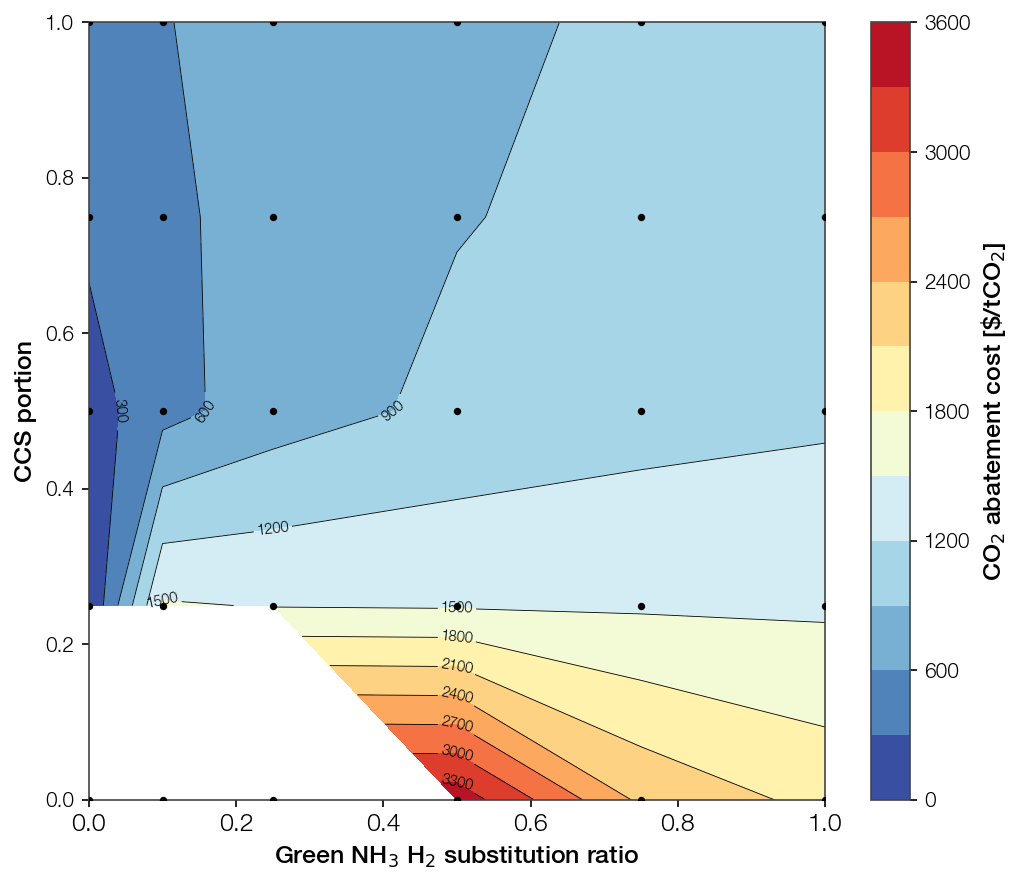
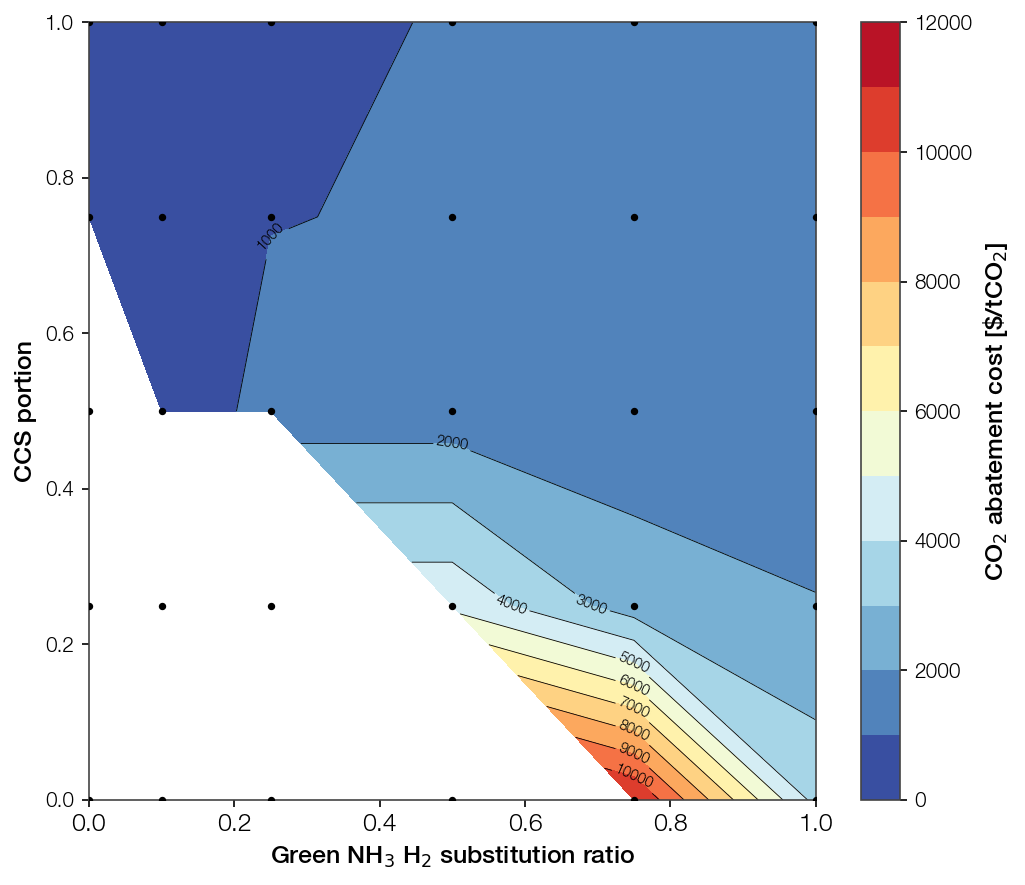
Rebase Pareto front to Korea grid mix (Allocation LCA)
Switch LCA_METHOD to Allocation_KRmix. KR base is dirtier (100.83 vs
87.57 g/MJ), so CCS25/CCS50 no longer clear the 75.9 CORSIA line; the
compliance floor moves to 10% green NH3 + CCS50 (75.18 g/MJ). Make the
abatement anchor dynamic (cheapest compliant run via the conventional-jet
threshold) instead of hardcoded grey+CCS25, and update the on-plot label
and base self-check. Front grows 12 -> 15 points (CCS75 tail); MJSP
unchanged (LCA touches only the GHG axis). Rebase _Pareto_Front.md body
and regenerate figures/results.

Claude-Session: https://claude.ai/code/session_01Y2TBxkYTweca7jJJRCozLX

diff --git a/tea_pareto_front.py b/tea_pareto_front.py
@@ -15,7 +15,7 @@ import os
 import pandas as pd
 import matplotlib.pyplot as plt
 from funs import TEA
-from funs_lca import get_WTWa_pyrolysis
+from funs_lca import get_WTWa_pyrolysis, get_WTWa_conventional
 
 # _PLOTTING_STYLE.md (SA_RC lives only in the notebook; inlined here)
 SA_RC = {
@@ -37,7 +37,7 @@ MAIN_SCALE = 10                 # main SAF unit fixed at knee-point x10
 AMM_SCALES = [0, 1, 2.5, 5, 7.5, 10]   # ammonia cracker scale
 CCS_RATES = [0.0, 0.25, 0.50, 0.75, 1.00]
 CO2_TS = 10.0                   # $/tCO2 T&S basis (current, commit 95db93c)
-LCA_METHOD = 'Allocation'       # report primary; GHG-100
+LCA_METHOD = 'Allocation_KRmix'  # report primary; GHG-100, Korea grid mix
 
 # Biomass price-model span at the x10 plant (0.457 MMt/yr SAF), from
 # tea_scale_up_price_models.py / tea_biomass_price_only.py: FR-price floor and galik
@@ -190,18 +190,19 @@ def main() -> None:
     df = pd.DataFrame(rows)
     df['pareto'] = pareto_mask(df)
 
-    # CO2 abatement cost vs the compliance floor (converted from the old grey-base reference).
-    # A producer is forced only to the cheapest CORSIA-compliant point; abatement = extra $/tCO2 to
-    # decarbonize *below* it. Anchor = grey-H2 + CCS25 (no ammonia): the CCS25 GREET sample is the
-    # nearest real run to the 0.9x-conventional line (76.0 g/MJ ~ 75.9 threshold; no interpolation,
-    # user choice) and is the cheapest compliant point on the front (every NH3-bearing compliant
-    # point costs more). Same formula as tea_scale_up_abatement.py: dMJSP / (dGHG * E) * 1e6.
+    # CO2 abatement cost vs the compliance floor. A producer is forced only to the cheapest
+    # CORSIA-compliant point (GHG <= 0.9x conventional); abatement = extra $/tCO2 to decarbonize
+    # *below* it. Floor = cheapest-MJSP point among the compliant runs, picked dynamically: under US
+    # mix this was grey-H2+CCS25, but under KR mix CCS25 alone (89.9 g/MJ) is not compliant, so the
+    # floor shifts to a deeper-decarbonization run. Same formula as tea_scale_up_abatement.py.
     E_MJ_PER_L = 31.66   # MJ/L SAF (report section 3b)
-    anchor = df[(df['amm_scale'] == 0) & (df['ccs'] == 0.25)].iloc[0]
+    threshold = 0.9 * get_WTWa_conventional(FILE_WTWA)['WTWa']['GHG-100']
+    compliant = df[df['ghg'] <= threshold]
+    anchor = compliant.loc[compliant['mjsp'].idxmin()]
     d_ghg = (anchor['ghg'] - df['ghg']) * E_MJ_PER_L        # g/L avoided vs the floor
     df['abatement'] = (df['mjsp'] - anchor['mjsp']) * 1e6 / d_ghg   # $/tCO2
-    df.loc[df['ghg'] > anchor['ghg'], 'abatement'] = float('nan')   # strictly above the floor (dirtier): n/a
-    df.loc[anchor.name, 'abatement'] = 0.0                          # the floor itself = 0 $/tCO2 reference (colored on contour)
+    df.loc[df['ghg'] > anchor['ghg'], 'abatement'] = float('nan')   # above the floor (dirtier): n/a
+    df.loc[anchor.name, 'abatement'] = 0.0                          # the floor itself = 0 $/tCO2 reference
 
     # scatter: color by ammonia scale, marker by CCS -----------------------
     plt.rcParams.update(SA_RC)
@@ -240,8 +241,8 @@ def main() -> None:
     err_h = plt.matplotlib.patches.Patch(facecolor='#999999', alpha=0.25, edgecolor='none',
                                          label='MJSP sensitivity (§4.7)')
     ax.legend(handles=amm_h + ccs_h + [front_h, err_h], ncol=2, loc='best')
-    # GHG basis stated on-plot to remove ambiguity (US grid mix, Allocation)
-    ax.text(0.02, 0.02, 'WTWa GHG: Allocation, US grid mix', transform=ax.transAxes,
+    # GHG basis stated on-plot to remove ambiguity (Korea grid mix, Allocation)
+    ax.text(0.02, 0.02, 'WTWa GHG: Allocation, Korea grid mix', transform=ax.transAxes,
             ha='left', va='bottom', fontsize=8, color='#555555')
     ax.set_ylim(0, 4)  # fix y-axis top at $4/L SAF
 
@@ -273,10 +274,10 @@ def main() -> None:
 
     tornado_compare(tea, h2_cost, h2_rate, bio_cost, op)   # CCS 25% vs Green NH3 25% panels
 
-    # self-checks: base positive; GHG base matches report ~87.57; more CCS lowers GHG at fixed NH3;
+    # self-checks: base positive; GHG base matches report ~100.83 (KR mix); more CCS lowers GHG at fixed NH3;
     # more NH3 lowers GHG at fixed CCS; front is non-empty and trades off (ghg up <-> mjsp down).
     assert (df['mjsp'] > 0).all()
-    assert abs(ghg_base - 87.57) < 1.0, ghg_base
+    assert abs(ghg_base - 100.83) < 1.0, ghg_base
     g = df.pivot(index='amm_scale', columns='ccs', values='ghg')
     assert (g[1.0] < g[0.0]).all() and (g.loc[10] < g.loc[0]).all()
     assert len(front) >= 2 and front['mjsp'].is_monotonic_decreasing

diff --git a/_Pareto_Front.md b/_Pareto_Front.md
@@ -2,7 +2,7 @@
 
 Two-objective trade-off (minimize MJSP, minimize WTWa GHG) for the SAF pyrolysis
 process, main unit fixed at scale **x10** (MJSP economies-of-scale knee), sweeping
-ammonia-cracker scale and CCS portion. 551 basis, Allocation LCA.
+ammonia-cracker scale and CCS portion. 551 basis, Allocation LCA, **Korea grid mix**.
 
 Script: `tea_pareto_front.py` → `Figure/pareto_front.png`, `Result/pareto_front.xlsx`.
 
@@ -22,16 +22,16 @@ Script: `tea_pareto_front.py` → `Figure/pareto_front.png`, `Result/pareto_fron
 - **MJSP** — `funs.TEA.economic_analysis` at `Scale0100`. For x0, the grey `Base` row; for
   x1–x10, the `Mix` row (partial grey/ammonia H₂ **with CCS applied at the same portion**).
   No engine change. CO₂ T&S = **$10/tCO₂** (current basis, commit 95db93c).
-- **GHG** — `funs_lca.get_WTWa_pyrolysis`, GHG-100, **Allocation method, US grid mix**
-  (`Pyrolysis_551_LCA_Allocation.xlsx`, *not* the `_KRmix` / Displacement variants; base
-  87.57 g/MJ = the US-Allocation value, vs 100.83 for KR-Allocation). CCS uses the per-portion LCA
+- **GHG** — `funs_lca.get_WTWa_pyrolysis`, GHG-100, **Allocation method, Korea grid mix**
+  (`Pyrolysis_551_LCA_Allocation_KRmix.xlsx`, *not* the US-mix / Displacement variants; base
+  100.83 g/MJ = the KR-Allocation value, vs 87.57 for US-Allocation). CCS uses the per-portion LCA
   sheets (`Base`, `CCS025/050/075/100` — no interpolation). The ammonia lever is applied as an
   additive delta from base:
   `GHG(a,c) = ghg_ccs[c] − a·(ghg_base − ghg_ammonia)`.
   - **Assumption**: ammonia-H₂ abatement (removing upstream grey-H₂/SMR emissions) is
     independent of, and additive to, CCS process-CO₂ capture — they act on largely different
     emission sources. Cross-terms not modelled (no combined ammonia+CCS LCA case exists).
-- **Pareto front**: non-dominated set minimizing both objectives (12 of 30 points).
+- **Pareto front**: non-dominated set minimizing both objectives (15 of 30 points under KR mix).
 
 ## 3. Results
 
@@ -41,86 +41,94 @@ Colour = ammonia scale; marker = CCS portion; line = Pareto front.
 
 **Pareto-optimal points** (grey-end cheap → ammonia-end clean):
 
-| NH₃ scale | CCS | GHG [g CO₂e/MJ] | MJSP [$/L] |
+| Green NH₃ | CCS | GHG [g CO₂e/MJ] | MJSP [$/L] |
 |-----------|-----|-----------------|------------|
-| x0  | 0%   | 87.57 | 0.793 |
-| x0  | 25%  | 76.01 | 0.855 |
-| x0  | 50%  | 64.44 | 0.913 |
-| x0  | 75%  | 54.18 | 1.111 |
-| x1  | 50%  | 60.63 | 1.098 |
-| x1  | 75%  | 50.36 | 1.296 |
-| x0  | 100% | 44.15 | 1.334 |
-| x1  | 100% | 40.34 | 1.518 |
-| x2.5| 100% | 34.62 | 1.782 |
-| x5  | 100% | 25.09 | 2.221 |
-| x7.5| 100% | 15.56 | 2.657 |
-| x10 | 100% |  6.03 | 3.085 |
+| 0%   | 0%   | 100.83 | 0.793 |
+| 0%   | 25%  |  89.93 | 0.855 |
+| 0%   | 50%  |  78.99 | 0.913 |
+| 10%  | 50%  |  75.18 | 1.098 |
+| 0%   | 75%  |  69.36 | 1.111 |
+| 10%  | 75%  |  65.55 | 1.296 |
+| 0%   | 100% |  59.96 | 1.334 |
+| 10%  | 100% |  56.15 | 1.518 |
+| 25%  | 100% |  50.44 | 1.782 |
+| 50%  | 75%  |  50.31 | 1.998 |
+| 50%  | 100% |  40.91 | 2.221 |
+| 75%  | 75%  |  40.78 | 2.435 |
+| 75%  | 100% |  31.39 | 2.657 |
+| 100% | 75%  |  31.26 | 2.863 |
+| 100% | 100% |  21.86 | 3.085 |
 
-Full 30-point grid in `Result/pareto_front.xlsx`.
+Full 30-point grid in `Result/pareto_front.xlsx`. (MJSP is identical to the US-mix run — the LCA
+method changes only the GHG axis, hence the front membership; the economics are untouched.)
 
 **CORSIA-compliance floor.** The regulatory line is **75.9 g CO₂e/MJ** (0.9 × conventional-jet
-WTWa, CORSIA −10%). Grey H₂ + **CCS25** (76.0 g CO₂e/MJ, 0.855 $/L) is the nearest sampled point to
-that line and the cheapest CCS-only route to it, so it is taken as the **compliance floor** — the
-point a producer is forced to, and the reference for the abatement cost in §5. Grey+CCS50 clears the
-line with margin (64.4 g/MJ) but costs more; every ammonia-bearing compliant point costs more still,
-so the cheapest way to satisfy the mandate is **CCS only, no ammonia**.
+WTWa, CORSIA −10%; unchanged — it is set by conventional jet, not the grid mix). Under the Korea
+grid the pyrolysis base is dirtier (100.8 g/MJ), so **CCS25 (89.9) and CCS50 (79.0) both miss the
+line** — the US-mix CCS-only compliance route no longer holds. The cheapest compliant point is now
+**10% green NH₃ + CCS50 (75.18 g/MJ, 1.098 $/L)**, taken as the **compliance floor** (the point a
+producer is forced to, and the reference for §5). CCS75-only clears the line too (69.4 g/MJ) at
+essentially the same cost (1.111 $/L). So under KR mix the mandate demands **either CCS ≥ 75% or
+CCS50 plus ~10% green ammonia** — materially deeper decarbonization than the US-mix CCS25 floor.
 
 ## 4. Reading the trade-off
 
-- **Front spans 0.79 → 3.09 $/L for 87.6 → 6.0 g CO₂e/MJ** — a ~14× GHG cut costs ~3.9× MJSP.
-- **CCS is the efficient near-term lever.** From grey-no-CCS, ramping CCS 0→100% (all at x0
-  ammonia) stays on or near the front down to 44 g at 1.33 $/L. Ammonia at low CCS is
-  dominated — every x2.5–x10 point at CCS <100% sits above the front.
-- **Ammonia only pays below ~44 g CO₂e/MJ.** Grey+CCS100 bottoms out at 44 g; going deeper
-  requires displacing grey H₂, so the whole deep-decarbonization tail of the front is
-  **CCS100 + rising ammonia scale**. Ammonia never appears on the front without CCS100.
-- **Knee of the front** is around the x0/CCS100 → x1/CCS100 region (44 g, 1.33 $/L): the last
-  cheap GHG reductions before ammonia's steep cost tail.
+- **Front spans 0.79 → 3.09 $/L for 100.8 → 21.9 g CO₂e/MJ** — a ~4.6× GHG cut costs ~3.9× MJSP.
+- **CCS is still the efficient near-term lever.** From grey-no-CCS, ramping CCS 0→100% (all at 0%
+  ammonia) stays on or near the front down to 60 g at 1.33 $/L. But under the dirtier KR base the
+  cheapest CCS-only points now need CCS75/100 to reach the mid-front.
+- **Ammonia enters the front earlier than under US mix.** Because CCS-only cannot clear the mandate,
+  the deep-decarbonization tail is **CCS75/CCS100 + rising ammonia scale** — the front now carries
+  CCS75 points (50/75/100% NH₃) as well as the CCS100 ladder. Ammonia no longer waits for CCS100.
+- **Knee of the front** is around the 10%/CCS50 → 0%/CCS75 region (69–75 g, ~1.10 $/L): the
+  compliance floor itself, just before the ammonia cost tail steepens.
 - This is a first scatter at base green-ammonia price ($0.288/lb) and $10/tCO₂ T&S; both move
   the ammonia and CCS tails respectively (see `_Tornado_Sensitivity.md` ranges).
 
 ## 5. CO₂ abatement cost (vs the CORSIA-compliance floor)
 
-Marginal cost of decarbonizing **below the compliance floor** — grey H₂ + **CCS25** (§3), the
-cheapest CORSIA-compliant point. Regulation forces a producer only as far as the floor; every
-reduction beyond it is voluntary, so the floor — not the dirty grey base — is the reference:
-`abatement = ΔMJSP / (ΔGHG · E) · 10⁶` [$/tCO₂], `E = 31.66 MJ/L SAF` (§3b), with ΔMJSP and ΔGHG
-taken against grey+CCS25 (76.0 g/MJ, 0.855 $/L). Points at or above the floor are non-abating
-(n/a). Same formula as `tea_scale_up_abatement.py`. Full grid in `Result/pareto_front.xlsx`
-(`abatement` column, rebased).
+Marginal cost of decarbonizing **below the compliance floor** — **10% green NH₃ + CCS50** (§3), the
+cheapest CORSIA-compliant point under the Korea grid. Regulation forces a producer only as far as
+the floor; every reduction beyond it is voluntary, so the floor — not the dirty grey base — is the
+reference: `abatement = ΔMJSP / (ΔGHG · E) · 10⁶` [$/tCO₂], `E = 31.66 MJ/L SAF` (§3b), with ΔMJSP
+and ΔGHG taken against the floor (75.18 g/MJ, 1.098 $/L). Points at or above the floor are
+non-abating (n/a). The floor is selected dynamically as the cheapest compliant run (not hardcoded),
+so it tracks the LCA basis. Same formula as `tea_scale_up_abatement.py`. Full grid in
+`Result/pareto_front.xlsx` (`abatement` column, rebased).
 
 **Pareto-front points** — first row is the compliance floor (reference); the rest lie below it and
 carry a marginal abatement cost:
 
 | Green NH₃ | CCS | GHG [g/MJ] | MJSP [$/L] | Abatement [$/tCO₂] |
 |-----------|-----|------------|------------|--------------------|
-| 0%   | 25%  | 76.01 | 0.855 | 0 (floor) |
-| 0%   | 50%  | 64.44 | 0.913 | 160 |
-| 10%  | 50%  | 60.63 | 1.098 | 499 |
-| 0%   | 75%  | 54.17 | 1.111 | 371 |
-| 10%  | 75%  | 50.36 | 1.296 | 543 |
-| 0%   | 100% | 44.15 | 1.334 | 475 |
-| 10%  | 100% | 40.34 | 1.518 | 588 |
-| 25%  | 100% | 34.62 | 1.782 | 707 |
-| 50%  | 100% | 25.09 | 2.221 | 847 |
-| 75%  | 100% | 15.56 | 2.657 | 942 |
-| 100% | 100% |  6.03 | 3.085 | 1007 |
+| 10%  | 50%  | 75.18 | 1.098 | 0 (floor) |
+| 0%   | 75%  | 69.36 | 1.111 | 74 |
+| 10%  | 75%  | 65.55 | 1.296 | 649 |
+| 0%   | 100% | 59.96 | 1.334 | 490 |
+| 10%  | 100% | 56.15 | 1.518 | 698 |
+| 25%  | 100% | 50.44 | 1.782 | 873 |
+| 50%  | 75%  | 50.31 | 1.998 | 1144 |
+| 50%  | 100% | 40.91 | 2.221 | 1035 |
+| 75%  | 75%  | 40.78 | 2.435 | 1228 |
+| 75%  | 100% | 31.39 | 2.657 | 1125 |
+| 100% | 75%  | 31.26 | 2.863 | 1269 |
+| 100% | 100% | 21.86 | 3.085 | 1177 |
 
-- **Cheapest step below the floor = grey+CCS50 at 160 $/tCO₂** — deepen CCS on grey H₂. Grey-only
-  CCS deepening then climbs: CCS50→75→100 = 160→371→475 $/t (the last tonnes of capture cost most).
-- **Green ammonia is the expensive tail: 499 → 1007 $/tCO₂** (10%→100% share, all at CCS100). It
-  only enters once grey+CCS100 (44 g/MJ) is exhausted and deeper cuts are still needed.
-- CCS on grey H₂ is the cheapest abatement lever at every depth below the floor; ammonia is always
-  dearer per tonne. The deepest option (full green NH₃ + CCS100) reaches 6 g/MJ at 1007 $/t.
+- **Cheapest step below the floor = grey + CCS75 at 74 $/tCO₂** — deepen CCS on grey H₂. The next
+  grey-CCS step, CCS100 (60 g/MJ), costs 490 $/t (the last tonnes of capture cost most).
+- **Green ammonia is the expensive tail: ~650 → 1270 $/tCO₂** (10%→100% share, at CCS75/CCS100). It
+  only pays once grey+CCS100 (60 g/MJ) is exhausted and deeper cuts are still needed.
+- CCS on grey H₂ is the cheapest abatement lever near the floor; ammonia is always dearer per tonne.
+  The deepest option (full green NH₃ + CCS100) reaches 21.9 g/MJ at ~1180 $/t.
 
 ![Abatement cost contour](Figure/pareto_abatement_contour_compliance.png)
 
 Contour over the grid (x = green-NH₃ H₂ substitution ratio, y = CCS portion; dots = the 30 sampled
-points). The floor itself (grey+CCS25) is coloured as the **0 $/tCO₂ reference**; only cells
-*strictly above* it (GHG > 76.0 g/MJ — the grey base and the low-CCS/low-NH₃ corner) are blank
-(non-abating). Below the floor the cheapest tonnes lie along the **left edge
-(NH₃ = 0)** — deepening CCS on grey H₂; cost climbs steeply rightward as green ammonia is added.
-Same message as the table: **CCS first, ammonia last.**
+points). The floor (10% NH₃ + CCS50) is coloured as the **0 $/tCO₂ reference**; cells *above* it
+(GHG > 75.18 g/MJ — the grey base and the low-CCS/low-NH₃ corner, now a larger blank region than
+under US mix) are non-abating. Below the floor the cheapest tonnes still lie toward the **CCS axis**
+— deepening CCS; cost climbs steeply as green ammonia is added. Same message as the table:
+**CCS first, ammonia last — but under KR mix the floor itself already sits at deep CCS.**
 
 ## 6. MJSP sensitivity on the frontier
 
@@ -139,17 +147,21 @@ Bar = envelope (min…max) of the one-at-a-time swings. Table `Result/pareto_fro
 | 0%   | 0%   | 0.793 | 0.55 | 1.84 |
 | 0%   | 25%  | 0.855 | 0.61 | 1.90 |
 | 0%   | 50%  | 0.913 | 0.67 | 1.96 |
-| 1%*  | 50%  | 1.098 | 0.85 | 2.04 |
+| 10%  | 50%  | 1.098 | 0.85 | 2.04 |
 | 0%   | 75%  | 1.111 | 0.86 | 2.16 |
 | 10%  | 75%  | 1.296 | 1.05 | 2.24 |
 | 0%   | 100% | 1.334 | 1.09 | 2.38 |
 | 10%  | 100% | 1.518 | 1.27 | 2.46 |
 | 25%  | 100% | 1.782 | 1.49 | 2.57 |
+| 50%  | 75%  | 1.998 | 1.41 | 2.58 |
 | 50%  | 100% | 2.221 | 1.64 | 2.81 |
+| 75%  | 75%  | 2.435 | 1.56 | 3.31 |
 | 75%  | 100% | 2.657 | 1.78 | 3.54 |
+| 100% | 75%  | 2.863 | 1.69 | 4.03 |
 | 100% | 100% | 3.085 | 1.91 | 4.26 |
 
-(*10% NH₃ share, rounded.)
+(MJSP columns are LCA-method-independent — identical to the US-mix run; only the set of
+front rows changes with the GHG axis.)
 
 - **Bars are wide and upward-skewed**, driven by the hydrogen price (gray H₂ 1–4 $/kg or
   green NH₃ 0.12–0.45 $/lb) — the same conclusion as `_Tornado_Sensitivity.md`. Every point
@@ -166,6 +178,50 @@ Bar = envelope (min…max) of the one-at-a-time swings. Table `Result/pareto_fro
   Highs are unchanged — the hydrogen price, not biomass, sets the top of every bar.
 
 ## Log history
+
+### 2026-09-29 (update 7)
+
+**Discussion**
+- Rebased the whole report from **US grid mix → Korea grid mix** (Allocation, still 551 basis), per
+  user request. KR base is dirtier: 100.83 g/MJ vs 87.57 (US); ammonia 62.7 vs 49.5.
+- Consequence for compliance: the 75.9 g/MJ CORSIA line is unchanged (set by conventional jet), but
+  under KR mix **CCS25 (89.9) and CCS50 (79.0) both miss it** — the US-mix "CCS-only clears the
+  mandate at CCS25" story does not survive. Cheapest compliant point moves to **10% green NH₃ + CCS50
+  (75.18 g/MJ, 1.098 \$/L)**; CCS75-only (69.4, 1.111 \$/L) is essentially tied. Floor for §5 abatement
+  reset to that point.
+- Decided to make the abatement anchor **dynamic** (cheapest compliant run) instead of the hardcoded
+  grey+CCS25 — that cell is no longer compliant under KR mix, so hardcoding it would rebase against a
+  dirty reference. Dynamic pick keeps the stated intent ("cheapest CORSIA-compliant point") valid for
+  either grid.
+- US-mix numbers were **replaced** in the body (rebase, not a side-by-side variant); the prior
+  US-mix values remain in older log entries for provenance.
+
+**Code**
+- `tea_pareto_front.py` — `LCA_METHOD='Allocation_KRmix'`; abatement block now computes the CORSIA
+  threshold from `get_WTWa_conventional` and picks `anchor = cheapest-MJSP compliant point`
+  (`ghg ≤ 0.9×conventional`); on-plot label → "Korea grid mix"; self-check base 87.57 → 100.83.
+  Regenerated `Figure/pareto_front.png`, `Figure/pareto_abatement_contour_compliance.png`,
+  `Result/pareto_front.xlsx`, `Result/pareto_front_sensitivity.xlsx`. Self-checks pass.
+- Front grows **12 → 15 points**: the CCS75 tail (50/75/100% NH₃ at CCS75) now joins the CCS100
+  ladder. MJSP per (a,c) is unchanged — the LCA method touches only the GHG axis, confirmed by the
+  identical MJSP columns.
+- `tea_pareto_shap.py` unaffected (imports only `FS/FA/SA_RC/mix_row/BIO_PRICE_FR`, all economics).
+
+**Open**
+- Subscript glyphs (₂/₃) still render as tofu (SA_RC font lacks them) — cosmetic, project-wide.
+- `Manuscript/SI. Supporting Information.md` cites this report's US-mix floor (grey+CCS25) and base
+  87.57 — now stale; needs the KR-mix floor (10% NH₃ + CCS50) and base 100.83.
+
+### 2026-09-29 (update 6)
+
+**Code**
+- `tea_pareto_shap.py` — added `scatter()`: both points overlaid on one axes (x = Shapley MJSP
+  contribution, y = driver, ○ CCS25 / ■ NH₃25), wired into `main()` →
+  `Figure/shap_scatter_ccs25_vs_nh325.png`. Rendered from the saved `Result/shap_ccs25_vs_nh325.xlsx`
+  (no explainer re-run). Not committed (plot-only request).
+
+**Open**
+- Subscript glyphs render as tofu boxes in the scatter too (SA_RC font lacks ₂/₃) — cosmetic, project-wide.
 
 ### 2026-09-29 (update 5)
 
